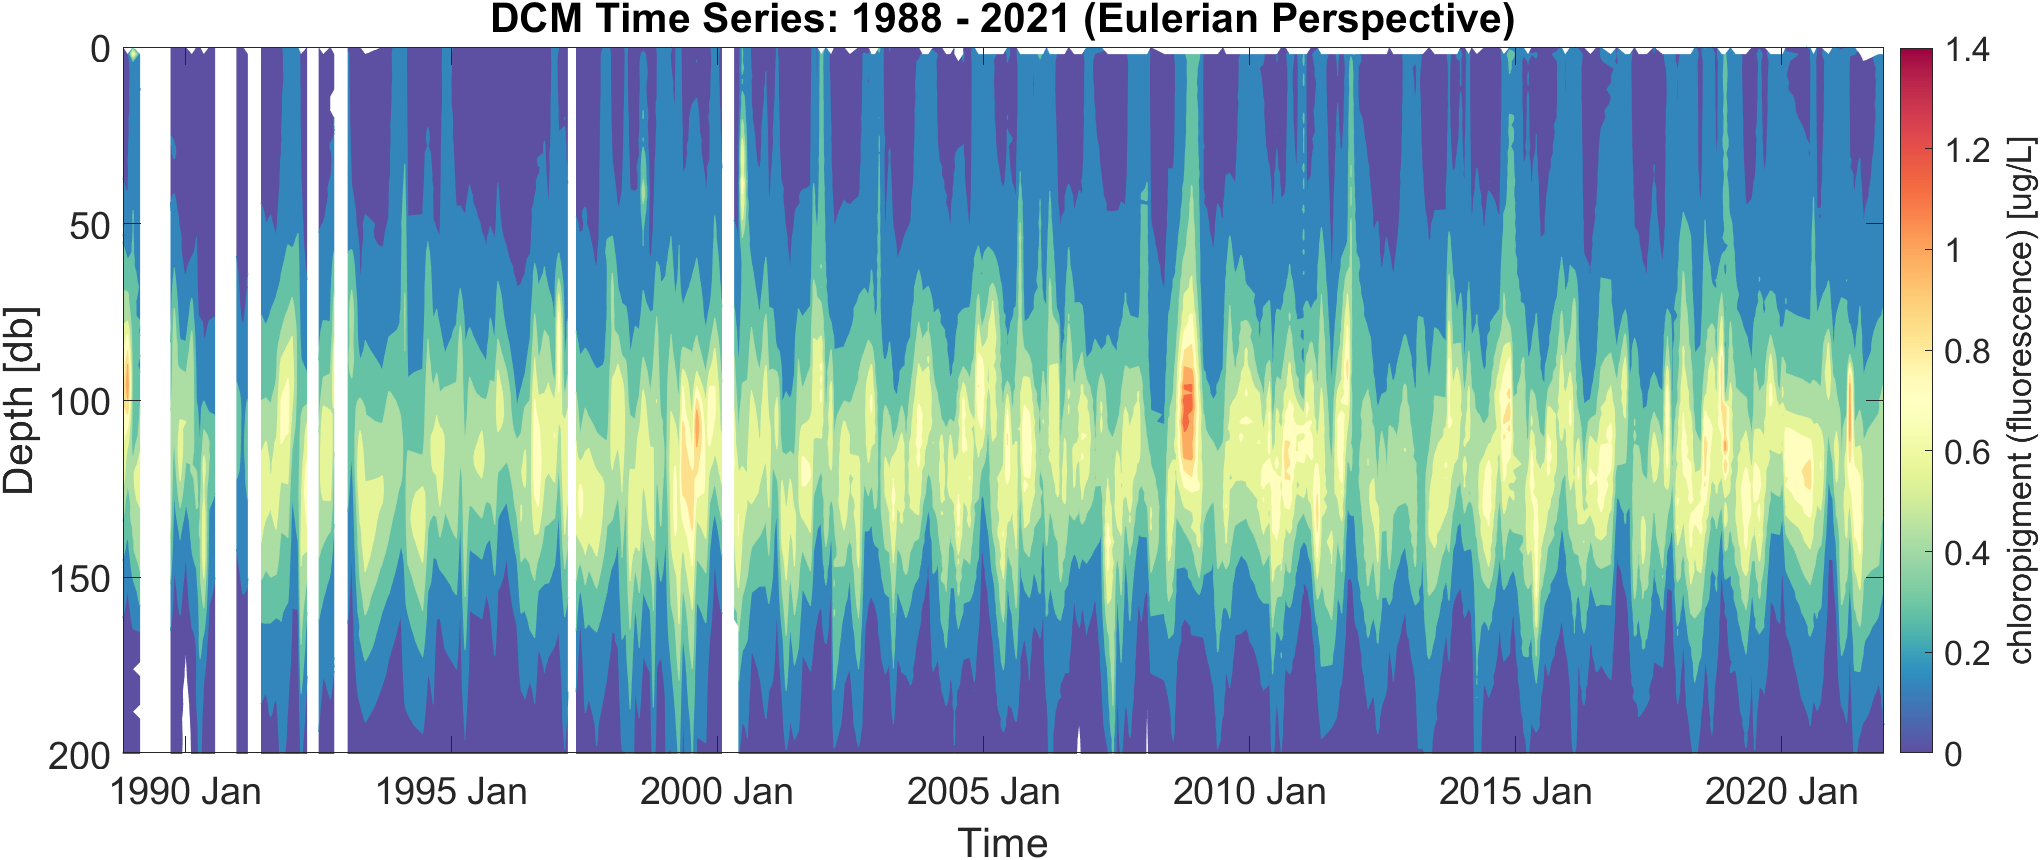
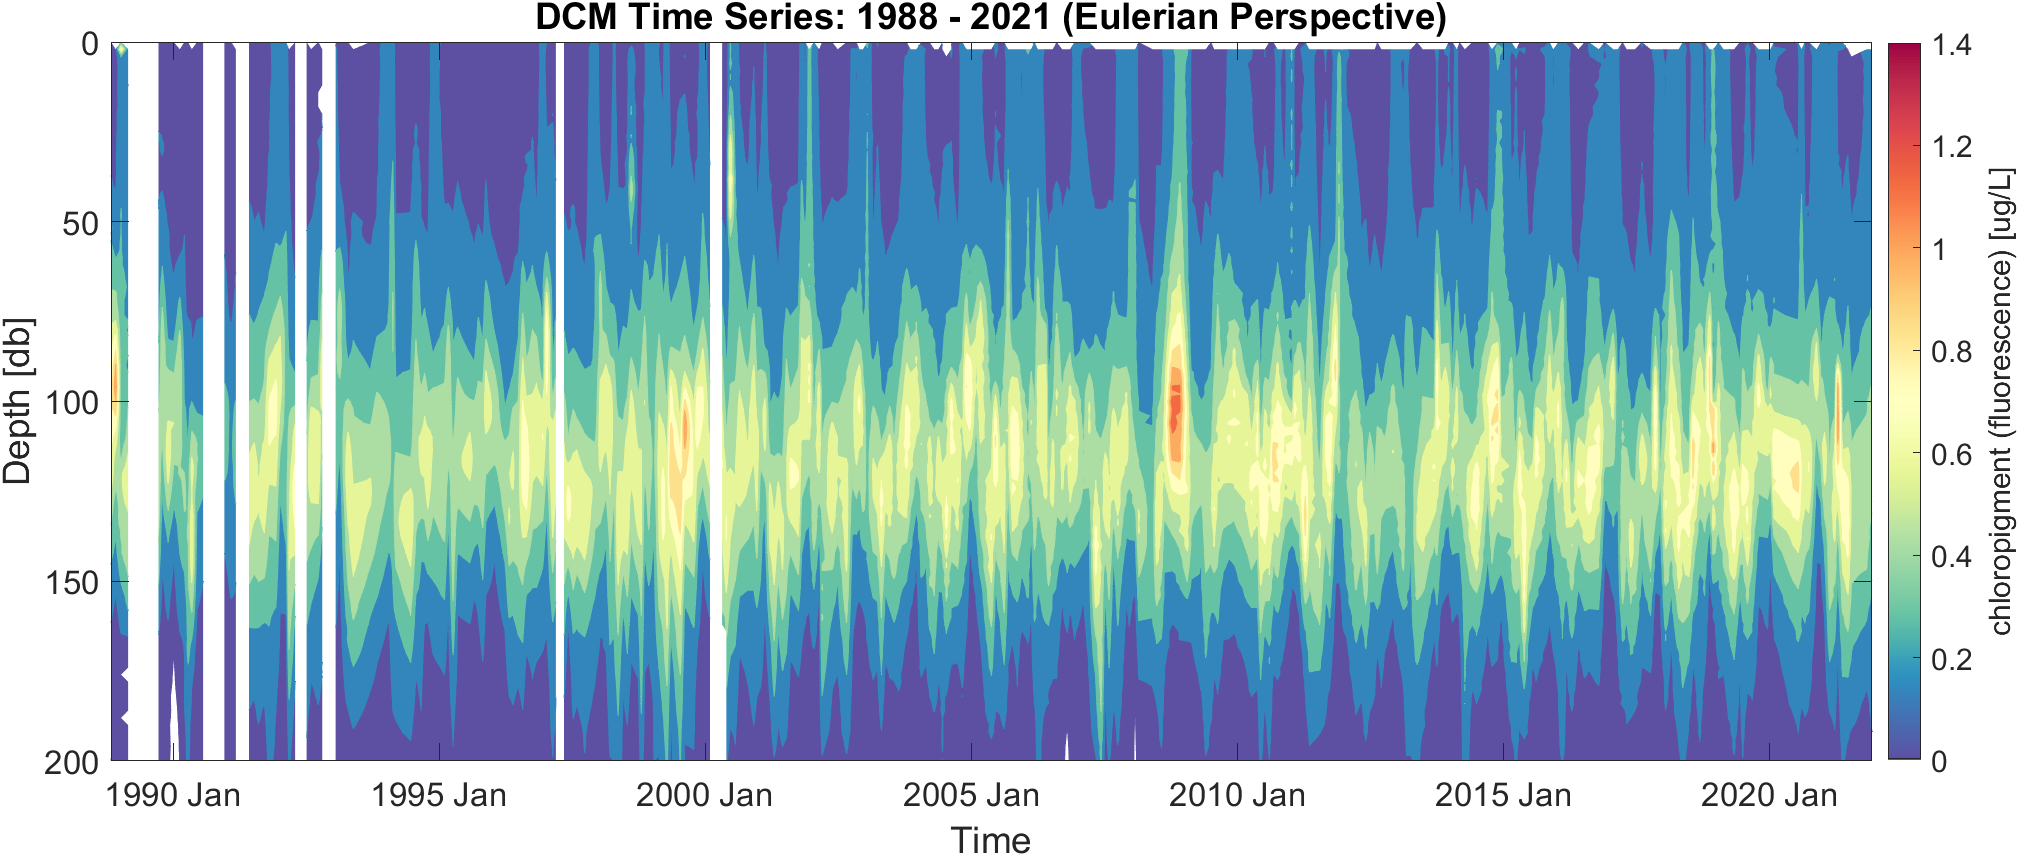
Histograms of Chloropigment at Depth
Examine histograms of chloropigment at three depths shown in Barone (2009) for Eulerian and Lagrangian case

diff --git a/examine_HOTS_chloropigment.m b/examine_HOTS_chloropigment.m
@@ -7,7 +7,7 @@ close all; clc; clear;
 set(groot,'defaultAxesXGrid','on');
 set(groot,'defaultAxesYGrid','on');
 set(groot, 'defaultFigureUnits', 'centimeters', 'defaultFigurePosition', [5 5 40 15]);
-set(0,'defaultAxesFontSize',18);
+set(0,'defaultAxesFontSize',16);
 
 %% Open data file and extract variables
 data = importdata('data/hots-chloropigment.txt').data;
@@ -105,3 +105,62 @@ ylabel('Depth [db]');
 title('DCM Time Series: 1988 - 2021 (Lagrangian Perspective)');
 
 exportgraphics(ax3,'figures/fluorescence-1988-2021_lagrangianView.png');
+
+%% Histograms at Depth
+
+set(groot, 'defaultFigureUnits', 'centimeters', 'defaultFigurePosition', [5 5 35 20]);
+nbins = 25; 
+
+% Eulerian
+[histFreq,histXout] = hist(chloro2D(6,:),nbins);
+[histFreq36,histXout36] = hist(chloro2D(36,:),nbins);
+[histFreq62,histXout62] = hist(chloro2D(62,:),nbins);
+
+% Lagrangian
+[histFreqL,histXoutL] = hist(chloro_lang(2,:),nbins);
+[histFreq36L,histXout36L] = hist(chloro_lang(26,:),nbins);
+[histFreq62L,histXout62L] = hist(chloro_lang(45,:),nbins);
+
+ax4 = figure;
+sgtitle('Histograms of Concentration at Different Depths','FontSize',20);
+subplot(2,2,1)
+bar(histXout, histFreq/sum(histFreq),'DisplayName','10 db');
+hold on
+bar(histXout36,histFreq36/sum(histFreq36),'DisplayName','70 db');
+bar(histXout62,histFreq62/sum(histFreq62),'DisplayName','122 db');
+legend();
+xlabel('chloropigment (\mu g L^{-1})');
+ylabel('Frequency');
+title('Frequency of Concentration (Eulerian)');
+
+subplot(2,2,2)
+bar(log(histXout), histFreq/sum(histFreq),'DisplayName','10 db');
+hold on
+bar(log(histXout36),histFreq36/sum(histFreq36),'DisplayName','70 db');
+bar(log(histXout62),histFreq62/sum(histFreq62),'DisplayName','122 db');
+legend();
+xlabel('chloropigment (\mu g L^{-1})');
+ylabel('Frequency');
+title('Frequency of Log-Concentration (Eulerian)');
+
+subplot(2,2,3)
+bar(histXoutL, histFreqL/sum(histFreqL),'DisplayName','-100 db');
+hold on
+bar(histXout36L,histFreq36L/sum(histFreq36L),'DisplayName','-50 db');
+bar(histXout62L,histFreq62L/sum(histFreq62L),'DisplayName','-12 db');
+legend();
+xlabel('chloropigment (\mu g L^{-1})');
+ylabel('Frequency');
+title('Frequency of Log-Concentration (Lagrangian)');
+
+subplot(2,2,4)
+bar(log(histXoutL), histFreqL/sum(histFreqL),'DisplayName','-100 db');
+hold on
+bar(log(histXout36L),histFreq36L/sum(histFreq36L),'DisplayName','-50 db');
+bar(log(histXout62L),histFreq62L/sum(histFreq62L),'DisplayName','-12 db');
+legend();
+xlabel('chloropigment (\mu g L^{-1})');
+ylabel('Frequency');
+title('Frequency of Log-Concentration (Lagrangian)');
+
+exportgraphics(ax4,'figures/hist_chloropig_selectDepths_1989-2021.png');
